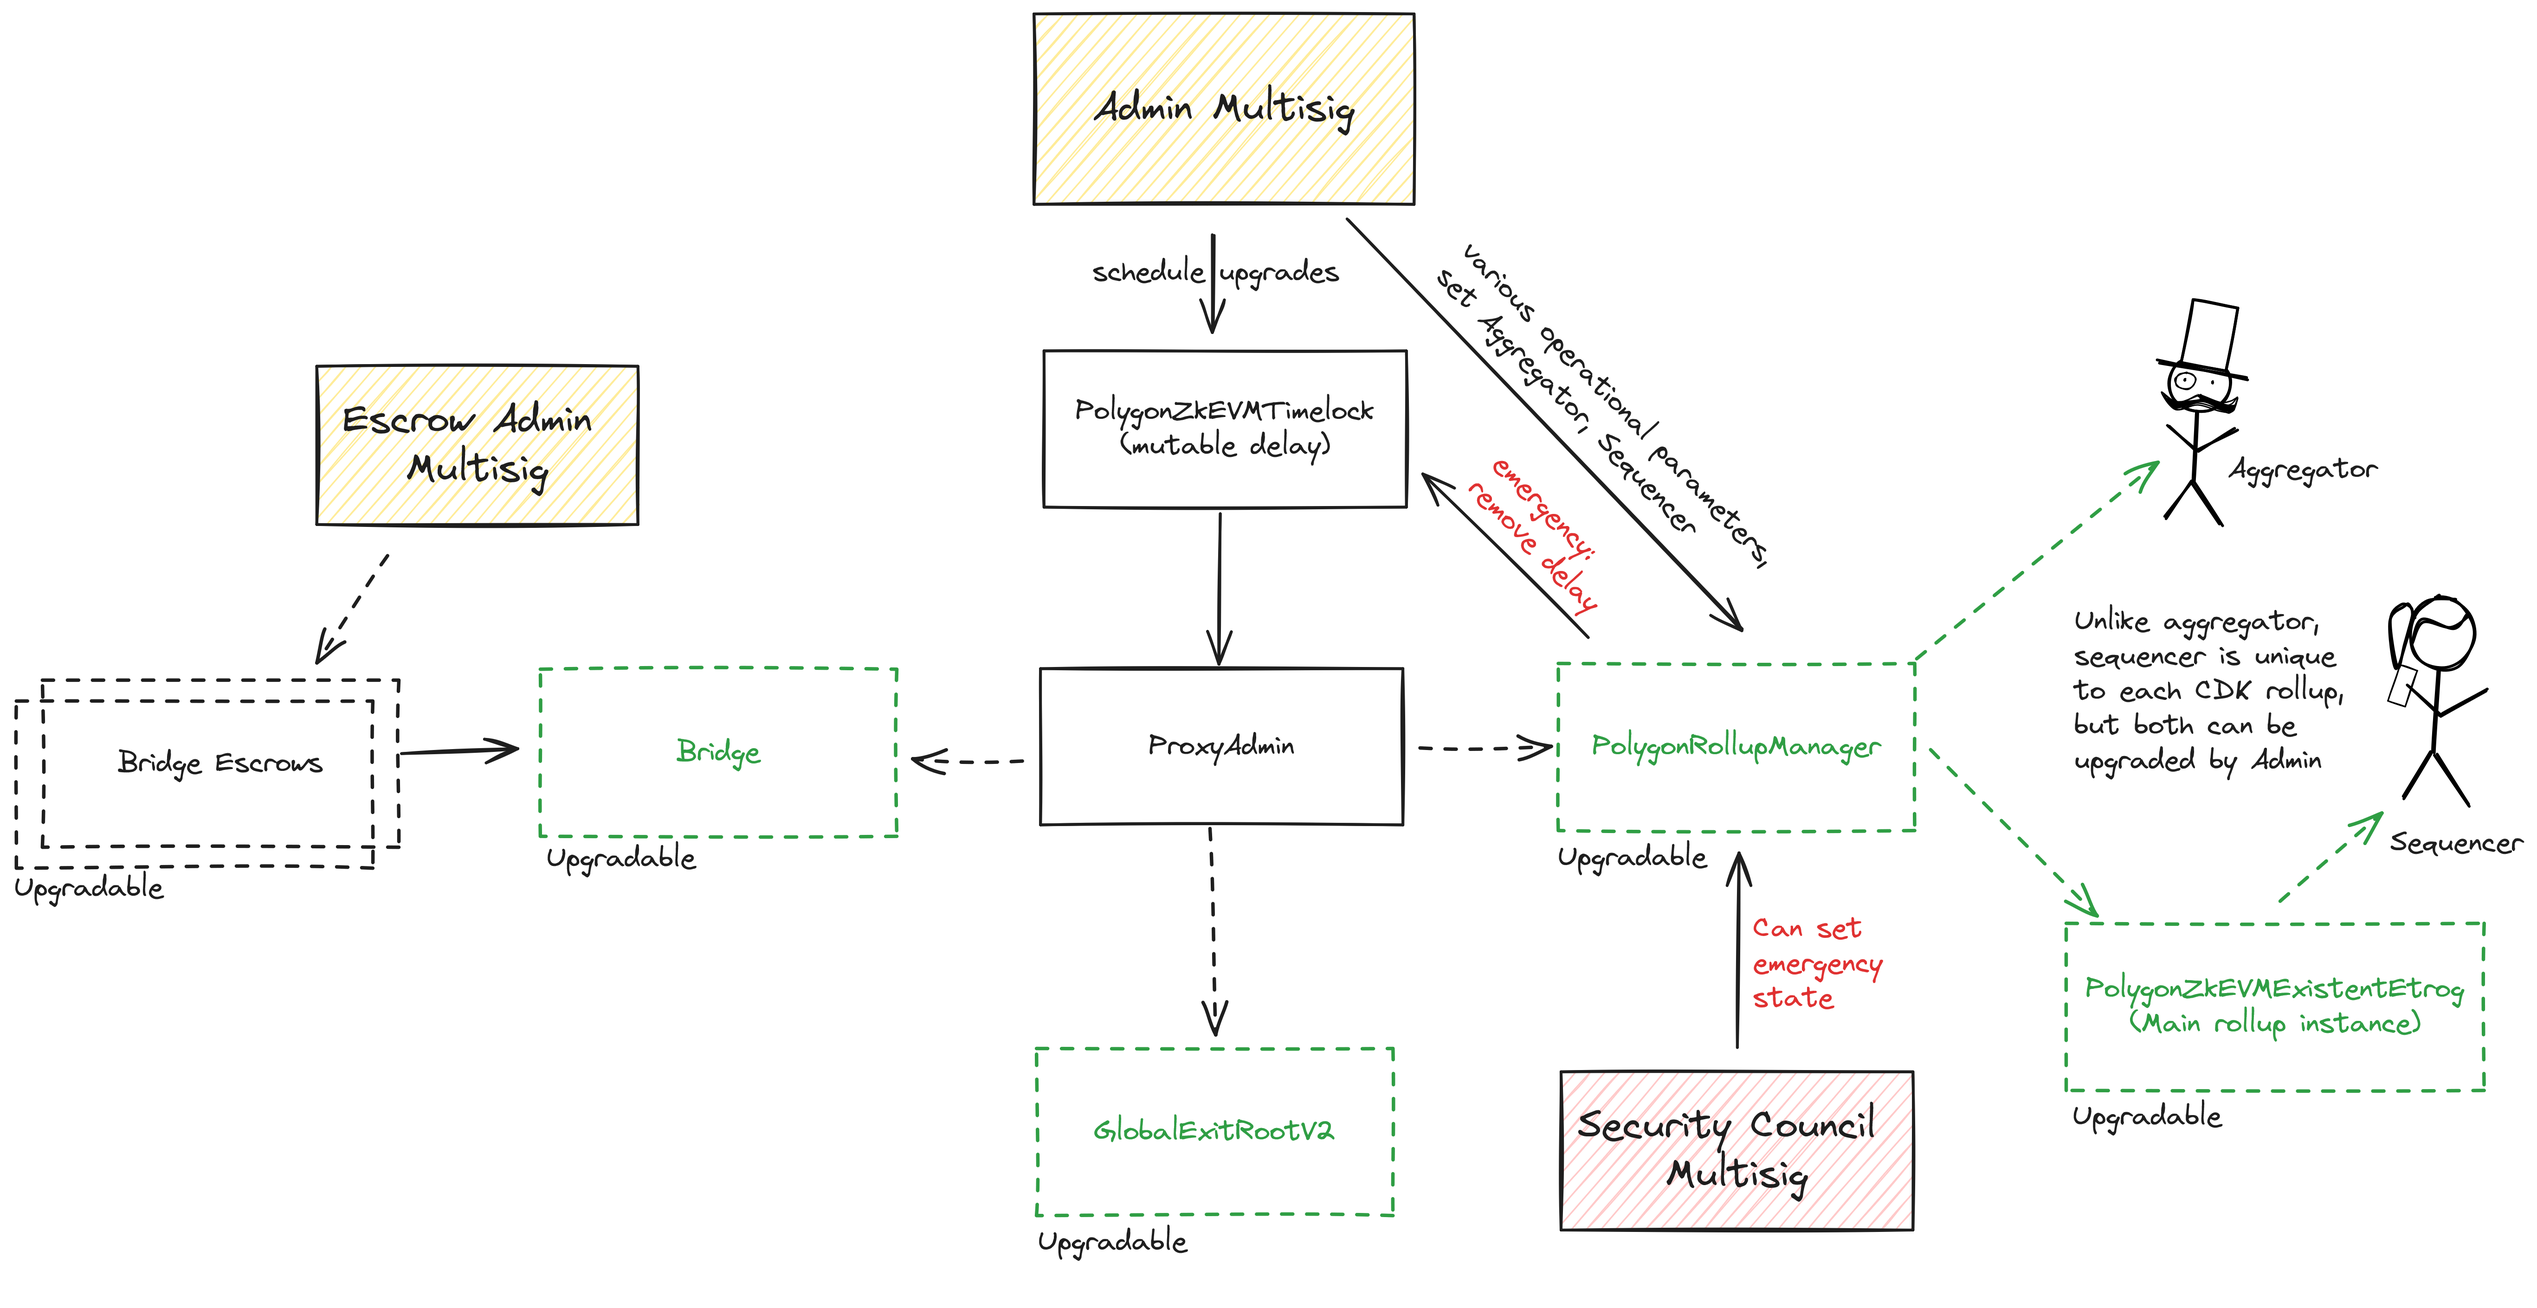
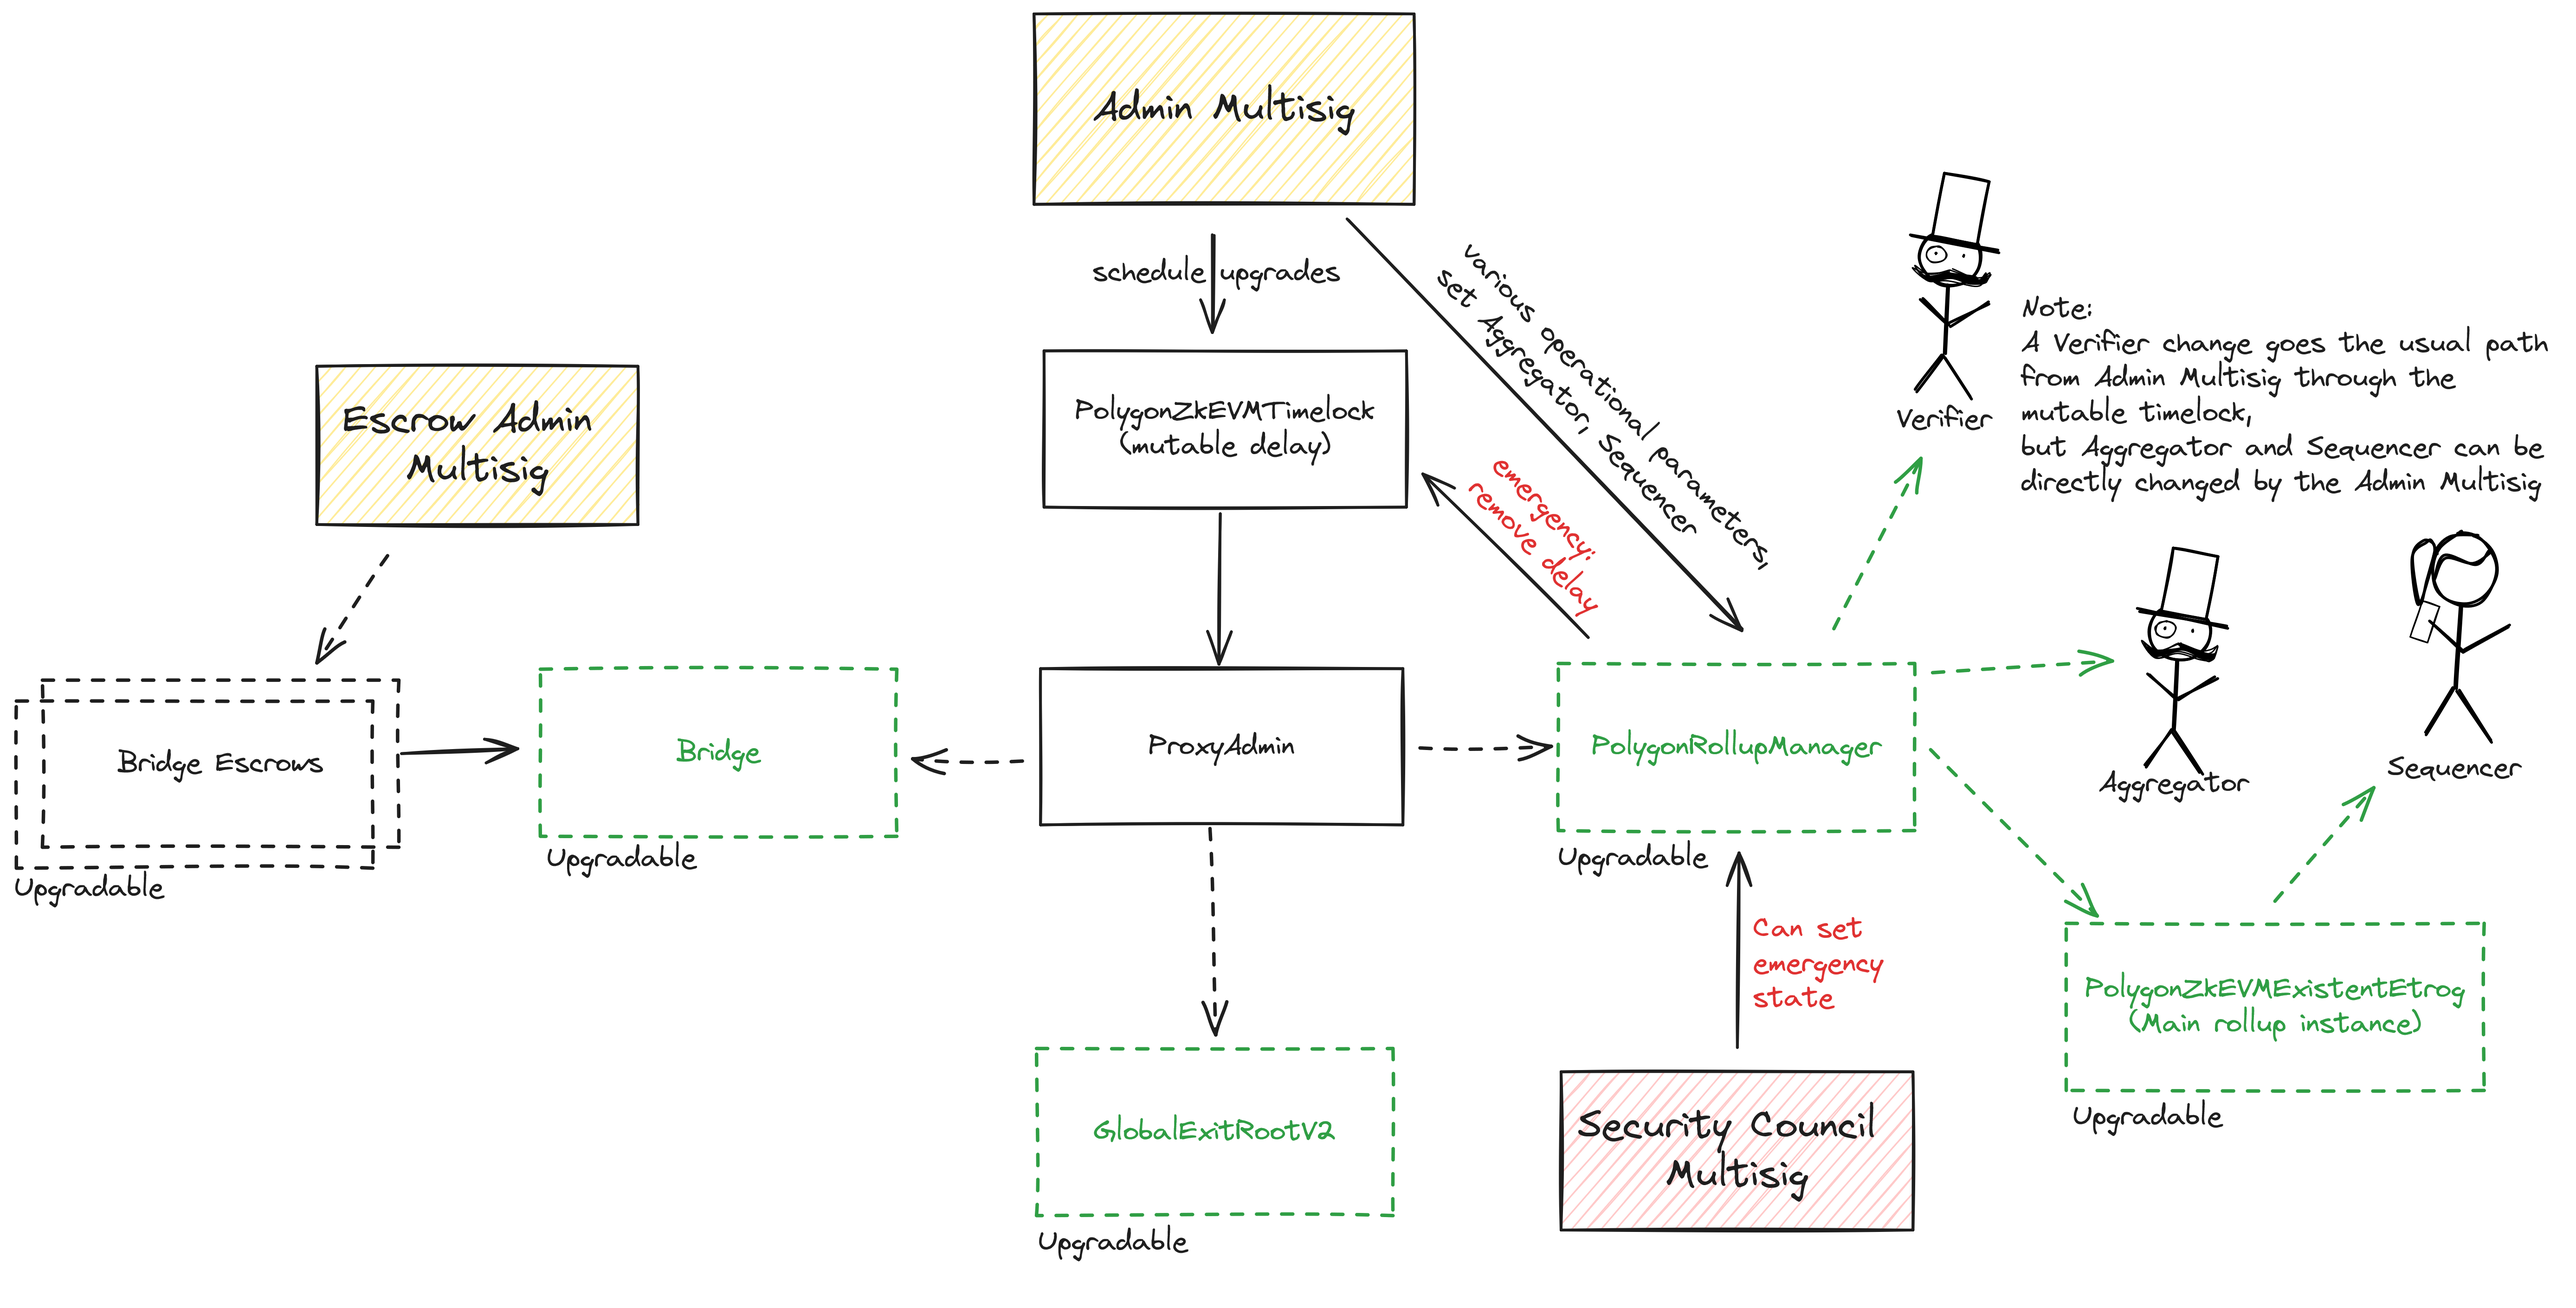
add verifier

diff --git a/packages/config/src/layer2s/polygonzkevm.ts b/packages/config/src/layer2s/polygonzkevm.ts
@@ -588,7 +588,7 @@ export const polygonzkevm: Layer2 = {
     risks: [CONTRACTS.UPGRADE_WITH_DELAY_RISK(upgradeDelayString)],
   },
   upgradesAndGovernance: `
-All main contracts are upgradable by the ${discovery.getMultisigStats('AdminMultisig')} \`AdminMultisig\` through a timelock that owns \`ProxyAdmin\`. Addresses of trusted sequencer, aggregator and operational parameters on the \`PolygonRollupManager\` can be instantly set by the \`AdminMultisig\`. Escrow contracts are upgradable by the \`EscrowsAdmin\` ${discovery.getMultisigStats('EscrowsAdmin')} multisig.
+All main contracts and the verifier are upgradable by the ${discovery.getMultisigStats('AdminMultisig')} \`AdminMultisig\` through a timelock that owns \`ProxyAdmin\`. Addresses of trusted sequencer, aggregator and operational parameters on the \`PolygonRollupManager\` can be instantly set by the \`AdminMultisig\`. Escrow contracts are upgradable by the \`EscrowsAdmin\` ${discovery.getMultisigStats('EscrowsAdmin')} multisig.
 
 \`PolygonZkEVMTimelock\` is a modified version of TimelockController that disables delay in case of a manually enabled or triggered emergency state in the \`PolygonRollupManager\`. It otherwise has a ${upgradeDelayString} delay. 
     
